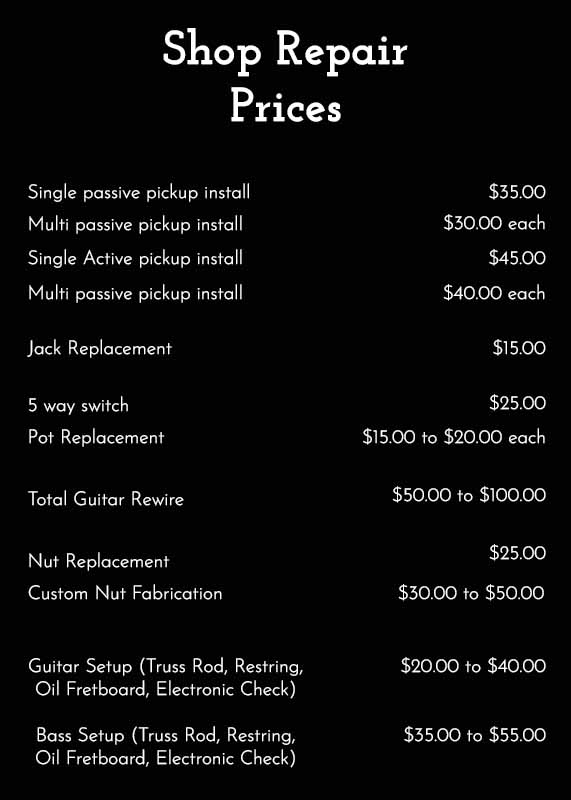
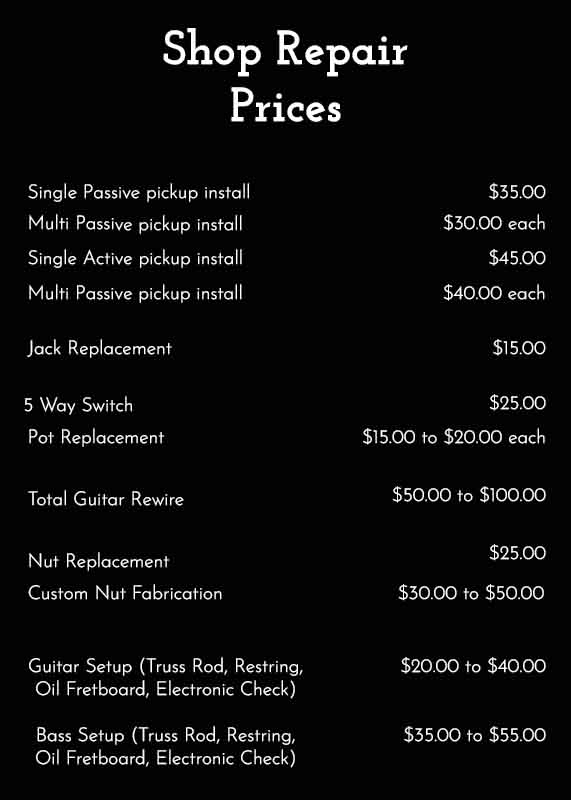
1.15
Fixed Spelling and cleanup

diff --git a/index.html b/index.html
@@ -102,22 +102,17 @@
     <section id="repair-sect">
       <img src="imgs/IMG_0621.jpg" alt="Band Instrument Repairs" decoding="sync"  id="repair-pic">
     <div id="repair-text">
-      <h1 style="margin-left: 4px";> Shop Repairs</h1>
       <img src="imgs/BobsLogo-John-Recovered (1).png", id="renLogo" style="float: right;">
+      <h1 style="margin-left: 4px";> Shop Repairs</h1> 
       <h2 style="margin-left: 10px;">Guitar and Amp Repair</h2>
       <p style="margin-left: 30px;">
         Here we specialize in Instrument and Equipment set ups and Repairs. We get your instument back to you in tip top shape in 
         short amount of time. Any questions just give 
-        us a call at (518)-561-5656. 
+        us a call at (518) 561-5656. 
       
       </p>
-        
 
-      <h2 style="margin-left: 10px;">
-        Here is an example of things we specialize in.
-      </h2>
-
-      <a data-fancybox="gallery" class="button" href="imgs/shoprepairs.jpg">Show Repairs</a>
+      <a data-fancybox="gallery" class="button" href="imgs/shoprepairs.jpg" style="margin-bottom: 2%;">Show Repairs</a>
 
 
 
@@ -278,7 +273,7 @@ function showSlides(n) {
       </h2>
       <ol>
         <li>
-          (518)-561-5656
+          (518) 561-5656
         </li>
       </ol>
       
@@ -290,13 +285,13 @@ function showSlides(n) {
       </h2>
       <ol>
         <li>
-          Tuesday - Friday: 10am-6pm
+          Tues - Fri: 10am - 6pm
         </li>
         <li>
           Saturday: 10am - 4pm
         </li>
         <li>
-          Sunday-Monday: Closed
+          Sun - Mon: Closed
         </li>
       </ul>
     </div>

diff --git a/rentals.html b/rentals.html
@@ -69,7 +69,7 @@
            
         </div>
         <div id = "rental-sheet">
-            <img src="imgs/BobsMusicRentalFlyer copy.jpg" id="flyer"> 
+            <img src="imgs/BobsMusicRentalFlyer.jpg" id="flyer"> 
         </div>
 
         <footer id = rental-footer>
@@ -91,7 +91,7 @@
               </h2>
               <ol>
                 <li>
-                  (518)-561-5656
+                  (518) 561-5656
                 </li>
               </ol>
               
@@ -103,13 +103,13 @@
               </h2>
               <ol>
                 <li>
-                  Tuesday - Friday: 10am-6pm
+                  Tues - Fri: 10am - 6pm
                 </li>
                 <li>
                   Saturday: 10am - 4pm
                 </li>
                 <li>
-                  Sunday-Monday: Closed
+                  Sun - Mon: Closed
                 </li>
               </ul>
             </div>
